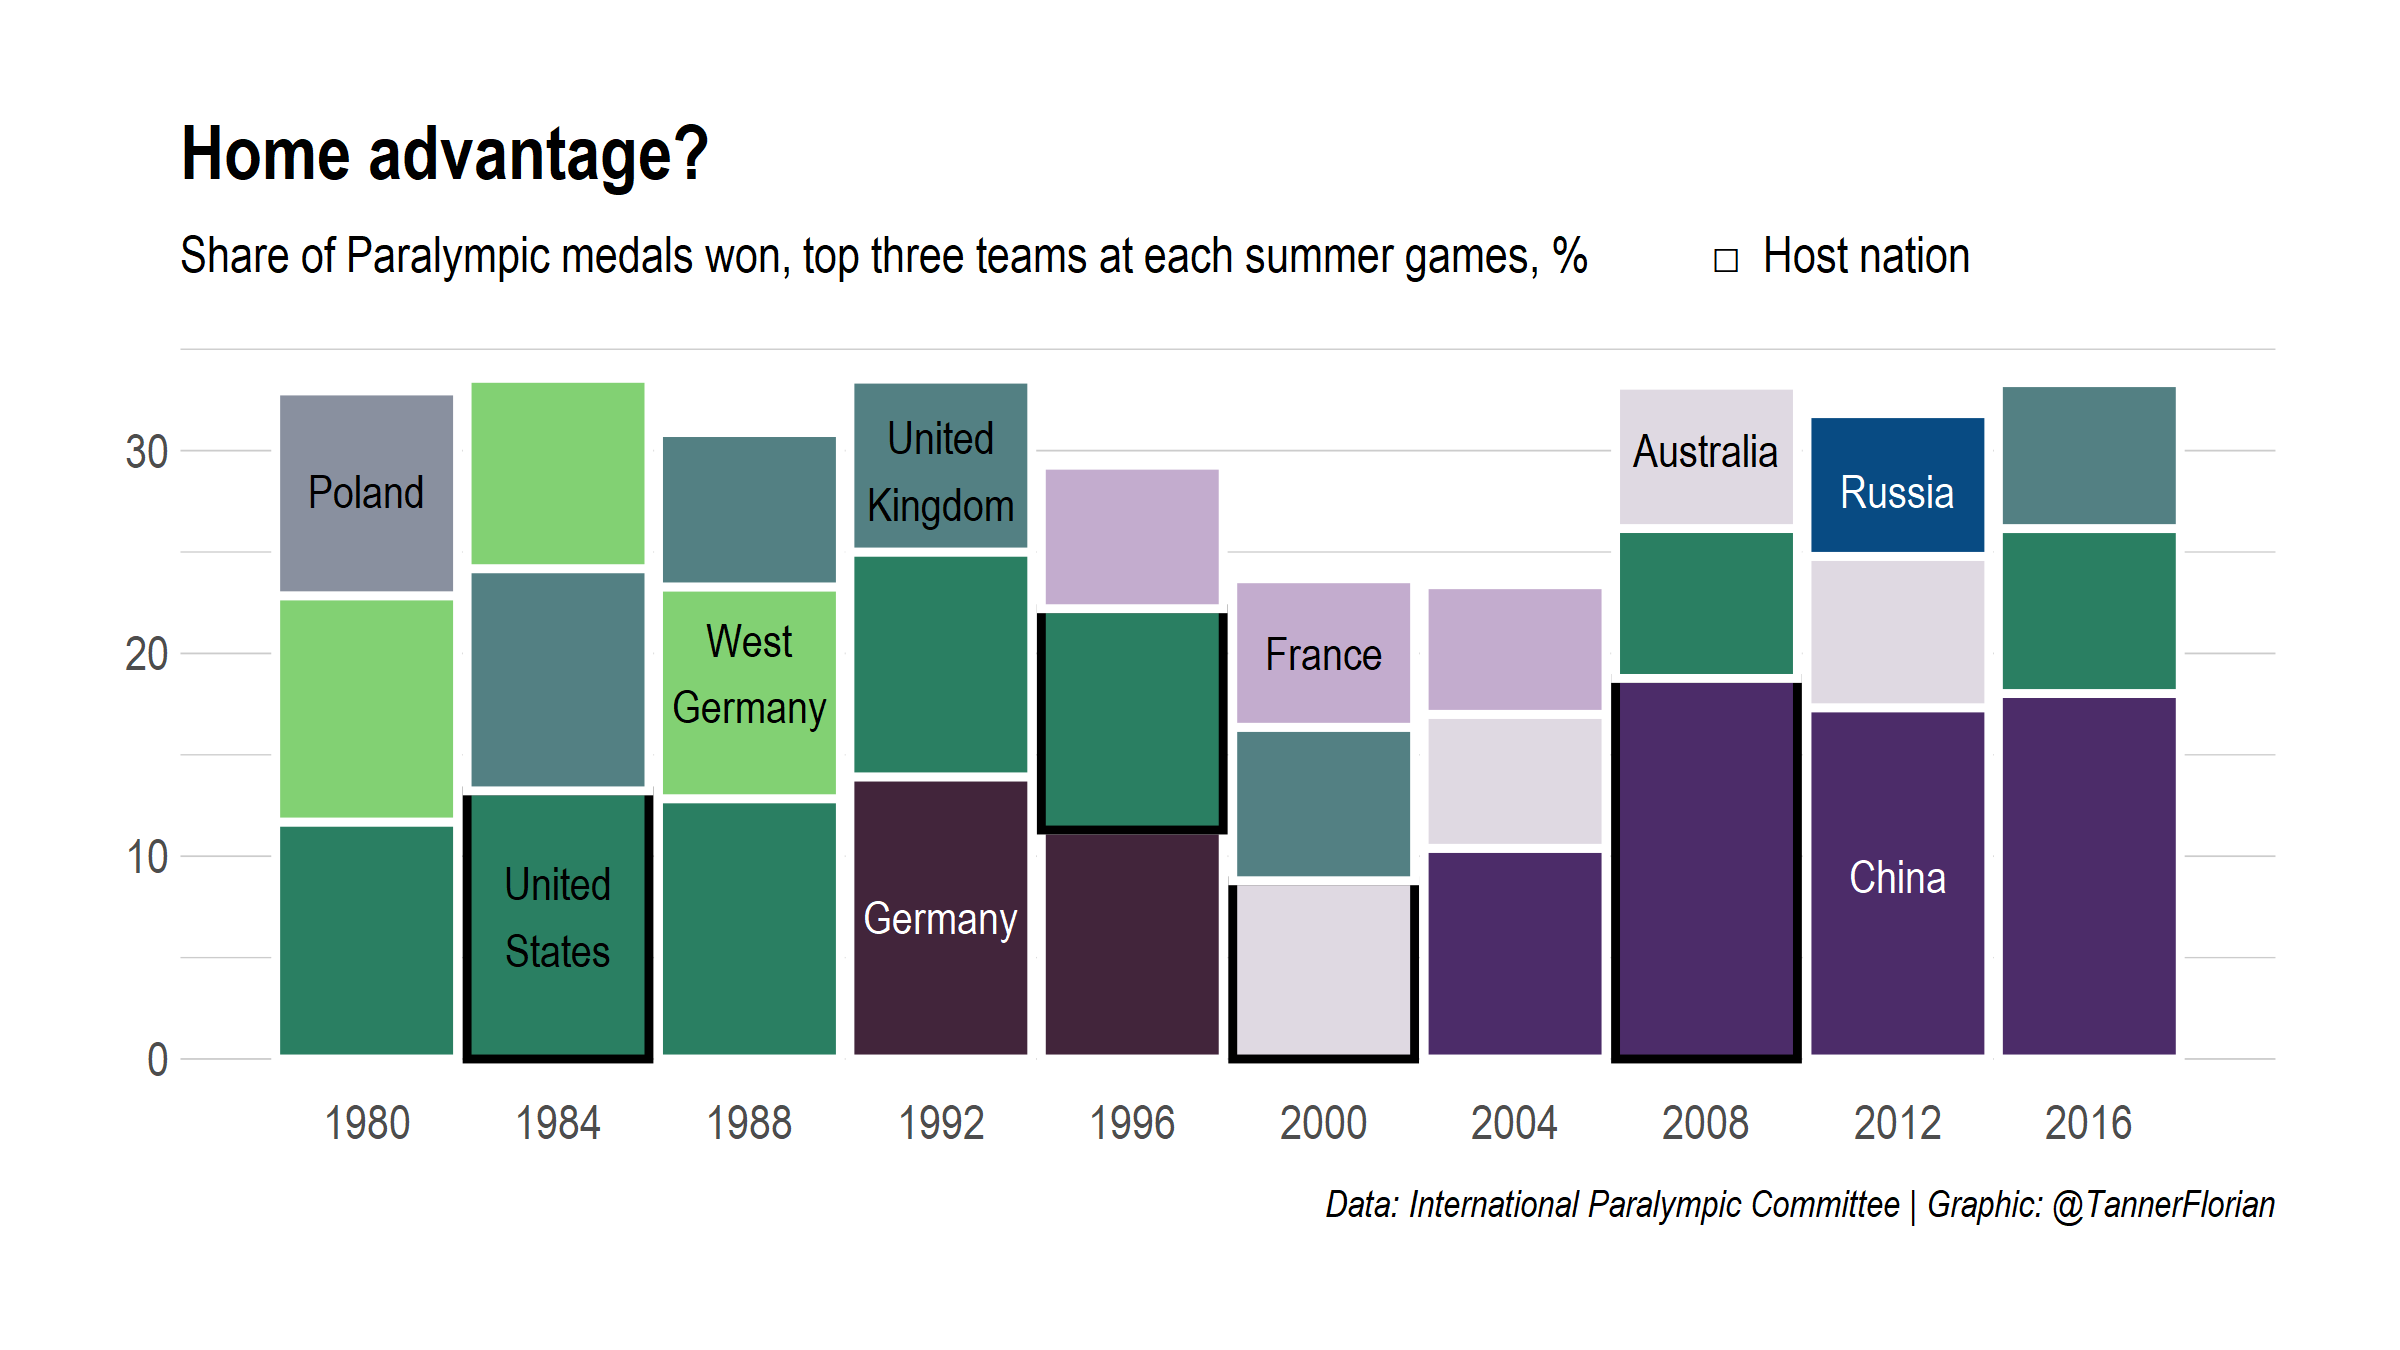
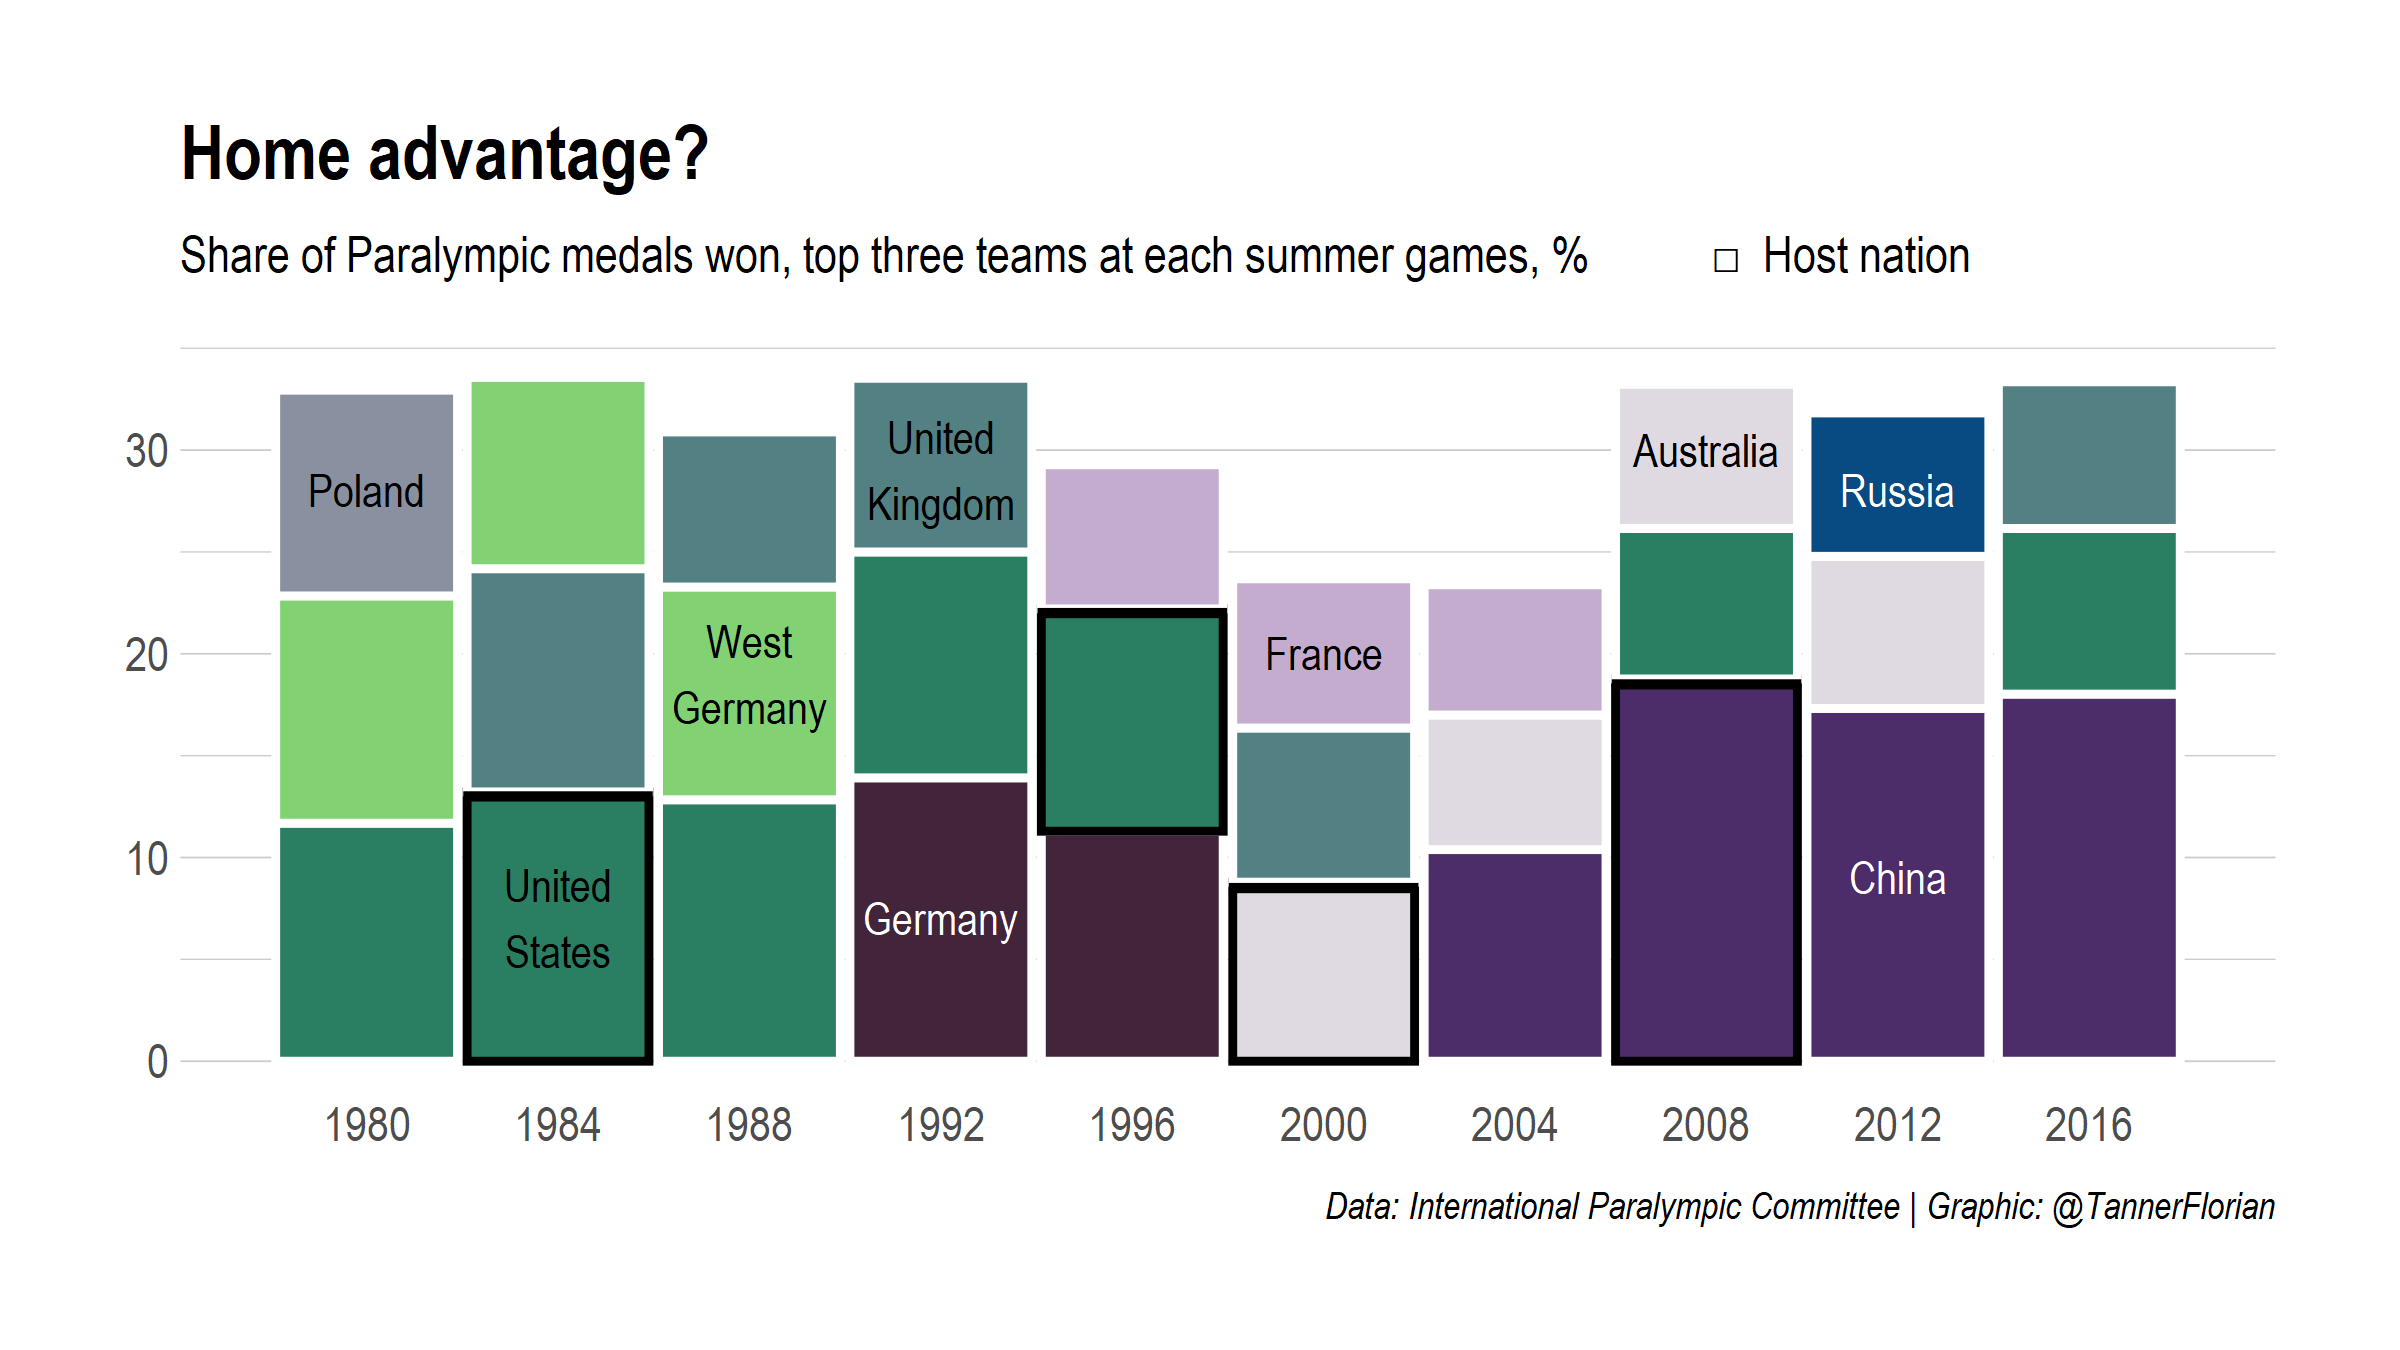
Add upper bars around host countries manually

diff --git a/2021/2021-08-03 Paralympic Medals/2021-08-03-Paralympic-Medals.md b/2021/2021-08-03 Paralympic Medals/2021-08-03-Paralympic-Medals.md
@@ -212,10 +212,7 @@ host_in_top$is_host_nation[host_in_top$country_fill == host_in_top$host] <- "yes
 Paralympics theme
 
 ``` r
-color_scheme1 <- c("#e8f7ee","#b8c4bb","#663f46","#3c362a","#c9d6ea","#fe5d26","#e85f5c","#004e64","#736ced")
 color_scheme2 <- c("#dfd9e2","#c3acce","#89909f","#538083","#2a7f62","#82d173","#4c2c69","#42253b","#084b83")
-color_scheme3 <- c("#94e8b4","#72bda3","#5e8c61","#4e6151","#3b322c","#e3170a","#f7b32b","#2d1e2f","#e0a890")
-color_scheme4 <- c("#bbd8b3","#f3b61f","#a29f15","#510d0a","#191102","#424c55","#886f68","#3d2c2e","#9590a8")
 
 paralympics_theme <- theme_ipsum() +
   theme(
@@ -226,7 +223,6 @@ paralympics_theme <- theme_ipsum() +
         panel.grid.minor.x = element_blank())
 
 label_family = "Arial Narrow"
-bold_label_family = "Arial"
 ```
 
 ``` r
@@ -252,8 +248,16 @@ p <- host_in_top %>%
   annotate(geom = "text", x = 2008, y = 30, label = "Australia", family= label_family) +
   annotate(geom = "text", x = 1980, y = 28, label = "Poland", family= label_family) +
   annotate(geom = "text", x = 2012, y = 28, label = "Russia", family = label_family, color = "white") + 
+  annotate(geom  = "segment", x = 1982.02, xend = 1985.98, y = 13, yend = 13, size = 1.15) +
+  annotate(geom  = "segment", x = 1994.02, xend = 1997.98, y = 22, yend = 22, size = 1.15) +
+    annotate(geom  = "segment", x = 1998.02, xend = 2001.98, y = 8.5, yend = 8.5, size = 1.15) +
+      annotate(geom  = "segment", x = 2006.02, xend = 2009.98, y = 18.5, yend = 18.5, size = 1.15) +
   paralympics_theme
+
+p
 ```
+
+![](2021-08-03-Paralympic-Medals_files/figure-gfm/unnamed-chunk-11-1.png)<!-- -->
 
 ``` r
 ggsave(plot = p, filename = "paralympics.png", device = "png", units = "in", width = 4, height = 2.25, scale = 2, type = "cairo")
